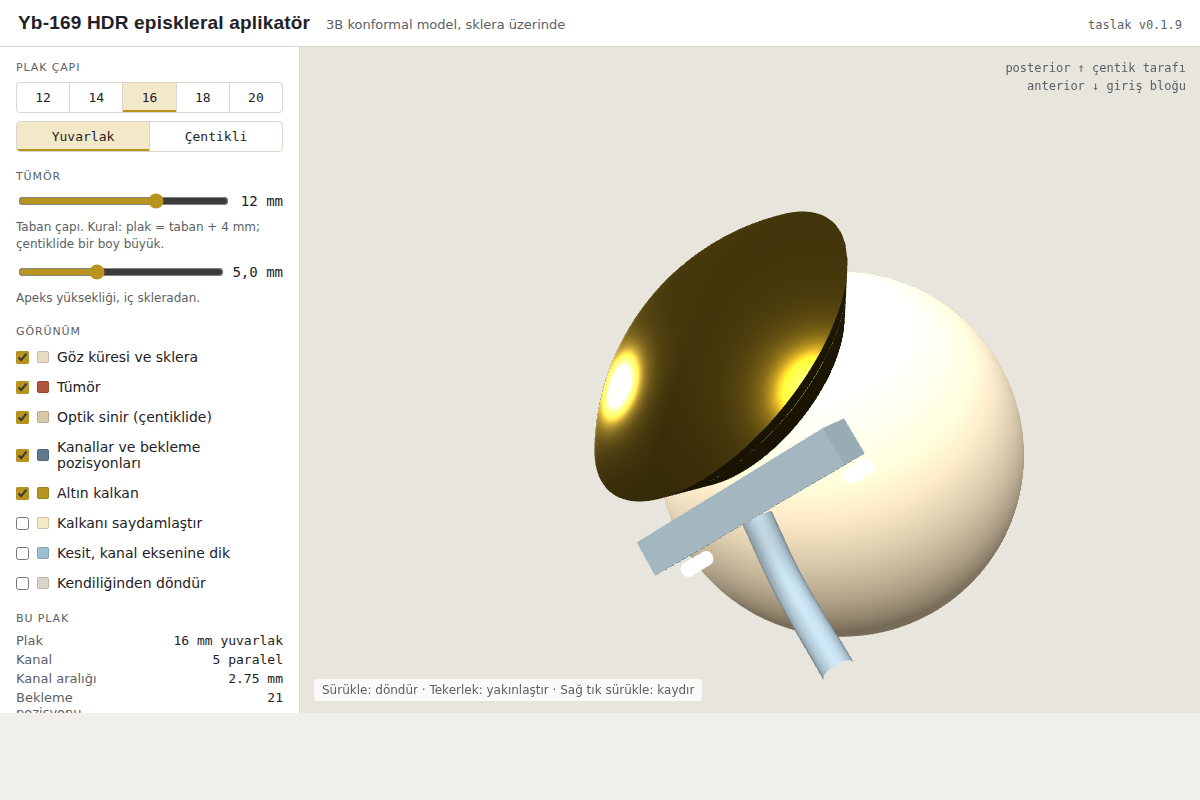
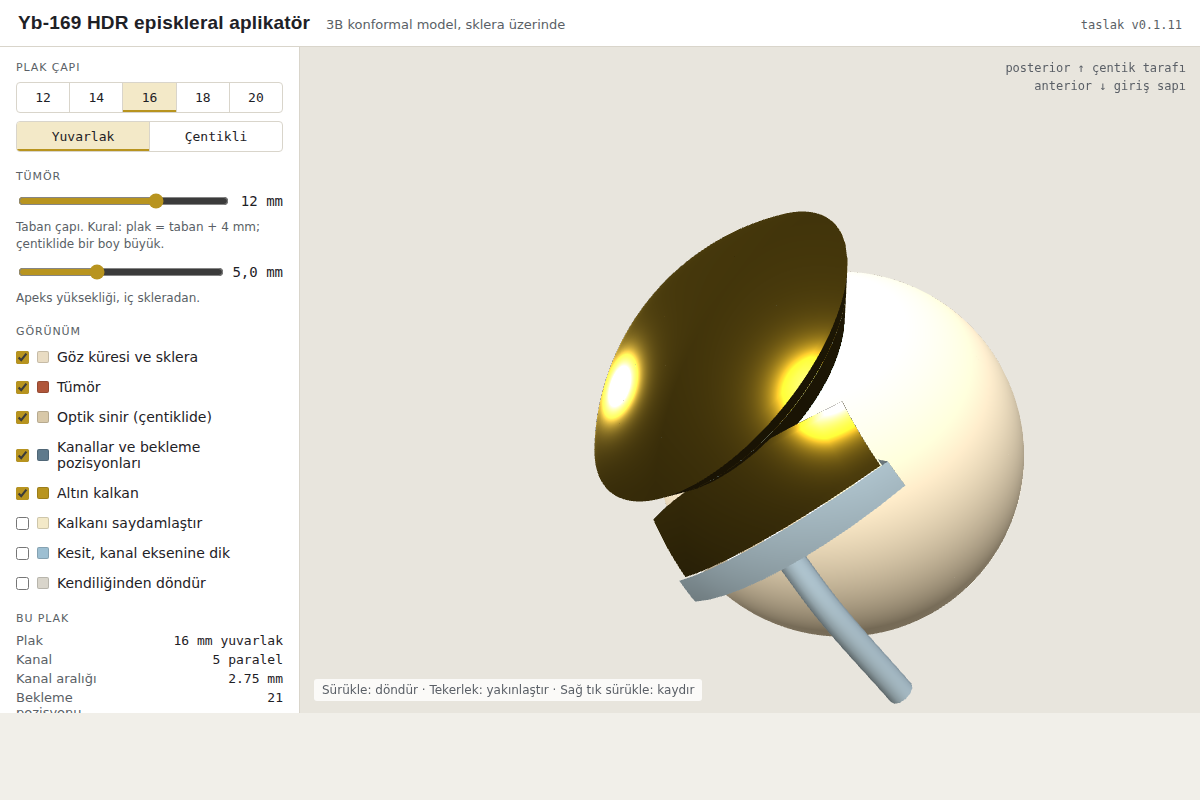
Giriş bloğu yerine kenara teğet yassı sap
Dupere 2021 aplikatörünün dış görünüşü benimsendi: pürüzsüz kabuk ve
plak kenarına teğet tek sap, kubbe uyarlamasıyla. Sap sklera eğrisini
izleyen yassı çok lümenli gövde olarak tanımlandı (belge 02); "9" halka
kanalının kabloyla uygulanamazlığı belge 07'ye eklendi. 3B modelde sap,
konektör ve kılıf yeniden kuruldu; 2B çizim etiketleri güncellendi.

Claude-Session: https://claude.ai/code/session_01HPtF2erGemc5sormR7shLC

Changed region(s): [[0.5242, 0.5, 0.7708, 0.875], [0.8633, 0.0938, 0.9867, 0.125], [0.925, 0.0, 0.9867, 0.0625]]

diff --git a/figures/3d-model.html b/figures/3d-model.html
@@ -91,7 +91,7 @@
 <header>
   <h1>Yb-169 HDR episkleral aplikatör</h1>
   <span class="sub">3B konformal model, sklera üzerinde</span>
-  <span class="ver">taslak v0.1.9</span>
+  <span class="ver">taslak v0.1.11</span>
 </header>
 
 <aside>
@@ -134,7 +134,7 @@
 </aside>
 
 <div id="scene">
-  <div class="axis">posterior ↑ çentik tarafı<br>anterior ↓ giriş bloğu</div>
+  <div class="axis">posterior ↑ çentik tarafı<br>anterior ↓ giriş sapı</div>
   <div class="hint">Sürükle: döndür · Tekerlek: yakınlaştır · Sağ tık sürükle: kaydır</div>
 </div>
 
@@ -327,22 +327,29 @@
           s.position.copy(P(c.x, y, R_D)); group.add(s);
         });
       }
-      // giriş bloğu
-      const xs = ch.map(c => c.x), w = Math.max(...xs) - Math.min(...xs) + 3.0;
-      const pos = P(0, -(r + 1.1), R1 + 1.5), n = pos.clone().normalize();
-      const ty = P(0, -(r + 1.1) + 0.01, R1 + 1.5).sub(P(0, -(r + 1.1), R1 + 1.5)).normalize();
-      const tx = new THREE.Vector3().crossVectors(ty, n).normalize();
-      const blk = new THREE.Mesh(new THREE.BoxGeometry(w, 2.2, 3.0), mats.block);
-      blk.matrix.makeBasis(tx, ty, n); blk.matrix.setPosition(pos); blk.matrixAutoUpdate = false; group.add(blk);
-      for (const c of ch) {
-        const hole = new THREE.Mesh(new THREE.CylinderGeometry(0.45, 0.45, 2.4, 12), mats.lumenSolid.clone());
-        const hp = P(c.x, -(r + 1.1), R1 + 1.5);
-        hole.matrix.makeBasis(tx, n, ty.clone().negate()); hole.matrix.setPosition(hp); hole.matrixAutoUpdate = false; group.add(hole);
+      // giriş sapı: sklera eğrisini izleyen kavisli, yassı, çok lümenli gövde
+      // (Dupere 2021 B görünüşünün kubbe uyarlaması). Konum meridyen yay uzunluğuyla.
+      const Q = (x, sArc, R) => {   // x: yanal kiriş (mm), sArc: kutuptan anteriora yay (mm)
+        const phi = sArc / R_SCL, c = Math.sqrt(Math.max(1 - (x / R_SCL) ** 2, 0));
+        return new THREE.Vector3(x / R_SCL, -Math.sin(phi) * c, Math.cos(phi) * c).normalize().multiplyScalar(R);
+      };
+      const xs = ch.map(c => c.x), w = Math.max(...xs) - Math.min(...xs) + 1.6, L = 4.0, T = 2.0;
+      const s0 = R_SCL * Math.asin(Math.min(r / R_SCL, 1)) - 0.4, Ra = R1 + 0.15, Rb = Ra + T;
+      const slab = (sA, sB, xw, Ra_, Rb_, mat, N = 12, M = 10) => {
+        const rows = (R) => Array.from({ length: N + 1 }, (_, i) => { const sv = sA + (sB - sA) * i / N;
+          return Array.from({ length: M + 1 }, (_, j) => Q(-xw / 2 + xw * j / M, sv, R)); });
+        group.add(gridMesh(rows(Rb_), mat)); group.add(gridMesh(rows(Ra_), mat));
+        for (const xe of [-xw / 2, xw / 2]) group.add(gridMesh(Array.from({ length: N + 1 }, (_, i) => { const sv = sA + (sB - sA) * i / N; return [Q(xe, sv, Ra_), Q(xe, sv, Rb_)]; }), mat));
+        for (const se of [sA, sB]) group.add(gridMesh(Array.from({ length: M + 1 }, (_, j) => { const xv = -xw / 2 + xw * j / M; return [Q(xv, se, Ra_), Q(xv, se, Rb_)]; }), mat));
+      };
+      slab(s0, s0 + L, w, Ra, Rb, goldMat);                                   // sap, altın kabukla tek parça
+      for (const c of ch) {                                                    // lümenler
+        const pts = Array.from({ length: 9 }, (_, i) => Q(c.x, s0 + 0.5 + (L - 0.3) * i / 8, (Ra + Rb) / 2));
+        group.add(new THREE.Mesh(new THREE.TubeGeometry(new THREE.CatmullRomCurve3(pts), 12, CH_ID / 2, 10, false), mats.lumenSolid));
       }
-      // kılıf: bloktan anteriora, yüzeye teğet uzaklaşır
-      const sh = [pos.clone().addScaledVector(ty, -1.2), pos.clone().addScaledVector(ty, -5).addScaledVector(n, 0.6),
-                  pos.clone().addScaledVector(ty, -10).addScaledVector(n, 3).addScaledVector(tx, 1.5)];
-      group.add(new THREE.Mesh(new THREE.TubeGeometry(new THREE.CatmullRomCurve3(sh), 16, 0.9, 12, false), mats.block));
+      slab(s0 + L, s0 + L + 1.6, w + 0.6, Ra - 0.2, Rb + 0.3, mats.block);   // kilitli konektör
+      const sh = [Q(0, s0 + L + 1.4, (Ra + Rb) / 2), Q(0, s0 + L + 5, (Ra + Rb) / 2 + 0.8), Q(0, s0 + L + 10, (Ra + Rb) / 2 + 3.5)];
+      group.add(new THREE.Mesh(new THREE.TubeGeometry(new THREE.CatmullRomCurve3(sh), 16, 0.8, 12, false), mats.block)); // kılıf
     }
     // tümör
     if (document.getElementById('cTumor').checked) {

diff --git a/tools/draw_plaques.py b/tools/draw_plaques.py
@@ -157,7 +157,7 @@ def single(D, notched=False):
     body.append(tv)
     sc, sinfo = section(D, S, 470, 300, notched=notched)
     body.append(sc)
-    body.append(f'<text x="200" y="{190 + (D/2 + 11.5) * S:.0f}" text-anchor="middle" font-size="11" fill="#555">Üstten görünüş, anterior (giriş bloğu) altta</text>')
+    body.append(f'<text x="200" y="{190 + (D/2 + 11.5) * S:.0f}" text-anchor="middle" font-size="11" fill="#555">Üstten görünüş, anterior (giriş sapı) altta</text>')
     body.append(f'<text x="470" y="{300 - (R_SCL + 6.0) * S:.0f}" text-anchor="middle" font-size="11" fill="#555">Kesit, kanal eksenine dik</text>')
     y = 440
     rows = [
@@ -169,7 +169,7 @@ def single(D, notched=False):
         f"En uzun kanal yayı {info['arc']:.1f} mm; eksen skleradan {OFF} mm, küre yarıçapı {R_SCL+OFF} mm",
         f"Katmanlar: ara katman {T_SPACER} mm, kanal katmanı {T_CHAN} mm, altın sırt {T_SHIELD} mm; kenar kalkanı {RIM} mm tam yükseklik",
         f"Kubbe derinliği (sagitta) {sinfo['sag']:.1f} mm, yarım açı {sinfo['th']:.0f}°; iç eğrilik yarıçapı {R_SCL} mm",
-        "Sütür deliği 3 adet, Ø 0,8 mm. Tek giriş bloğu, tek kilitli konektör, tek kılıf.",
+        "Sütür deliği 3 adet, Ø 0,8 mm. Kenara teğet yassı giriş sapı, tek kilitli konektör, tek kılıf.",
     ] + ([f"Çentik: U biçimli, genişlik {G.NOTCH_W:.0f} mm, sinir ekseni plak merkezinden {G.notch_center_y(D):.0f} mm (kenardan {G.NOTCH_INSET:.0f} mm içeride), dip merkezden {G.notch_center_y(D)-G.NOTCH_R:.0f} mm; kalkan çentiği izler"] if notched else [])
     for i, t in enumerate(rows):
         body.append(f'<text x="30" y="{y + i*17}" font-size="10.5" fill="#222">{t}</text>')
@@ -196,7 +196,7 @@ def family():
         yl = cy + 105 + (D/2 + 10) * S
         body.append(f'<text x="{cx}" y="{yl:.0f}" text-anchor="middle" font-size="9.5" fill="#333">{l1}</text>')
         body.append(f'<text x="{cx}" y="{yl+12:.0f}" text-anchor="middle" font-size="9.5" fill="#555">{l2}</text>')
-    body.append(f'<text x="{W/2}" y="{H-12}" text-anchor="middle" font-size="10" fill="#777">Her boy için üstten görünüş (posterior üstte, giriş bloğu anteriorda) ve kanal eksenine dik kesit. Şematik, taslak v0.1.</text>')
+    body.append(f'<text x="{W/2}" y="{H-12}" text-anchor="middle" font-size="10" fill="#777">Her boy için üstten görünüş (posterior üstte, giriş sapı anteriorda) ve kanal eksenine dik kesit. Şematik, taslak v0.1.</text>')
     return svg_wrap(W, H, "\n".join(body), "Plak ailesi")
 
 if __name__ == "__main__":

diff --git a/spec/02-aplikator-tasarim.md b/spec/02-aplikator-tasarim.md
@@ -116,7 +116,7 @@ Optik disk komşuluğundaki tümörler için 16, 18 ve 20 mm plakların posterio
 | Yarım daire merkezi (sinir ekseni) | Plak kenarından **1 mm içeride**: merkezden 16 mm'de 7, 18 mm'de 8, 20 mm'de 9 mm | Çentik derinliği bütün boylarda aynı (kenardan 6 mm); küçük plakta çentik plağın ortasına inmez ve plak sinire aynı biçimde oturur |
 | Çentik kenarı | 0,5 mm altın kalkan çentik hattını izler | Kenar her yerde kapalı kalır |
 | Tümör yerleşimi | Tümörün posterior kenarı disk kenarında (sinir ekseninden 1,5 mm önde), yani tümör çentik bölgesine 3 ile 4 mm girer; taban çapı ≤ plak çapı − 4 mm | Jukstapapiller tümörün gerçek yerleşimi; çentik altındaki tümör kenarı yalnızca yan kanallardan doz alır |
-| Sütür delikleri | 2 lateral, 1 anterior | Posterior kenar çentik nedeniyle kullanılamaz |
+| Sütür delikleri | 2 lateral, 1 anterior sapın yanında | Posterior kenar çentik nedeniyle kullanılamaz |
 
 Kanal düzeni çentikli sürümlerde değişir. Çentiğe giren üç iç kanal (x = 0 ve ± 3,15 mm) çentik
 sınırında kısaltılır; çentiğin iki yanında **tam boy yan kanallar** (x = ± 6,3 mm: çentik yarıçapı
@@ -158,16 +158,25 @@ Okuma:
 - HDR'nin çentikte avantajı, yan kanal bekleme sürelerinin tümör kenarına göre optimize
   edilebilmesidir; LDR'de bu serbestlik yoktur.
 
-## Giriş bloğu ve transfer tüpleri
+## Giriş sapı ve transfer tüpleri
 
-- **Plağa tek giriş vardır.** Kenar kalkanında tek bir yuva açılır; transfer tüpleri tek kılıf
-  ve tek kilitli konektörle bu yuvaya bağlanır. Kaynak, afterloader tarafından her kör kanala
-  sırayla gönderilir; cerrahın gördüğü tek bir kablo çıkışıdır.
-- Giriş bloğu plağın anterior kenarında, plak yüzeyinden **≤ 3 mm** çıkıntı yapar.
-  Kanal girişleri blokta yan yana dizilir; her giriş numaralı ve renk kodludur.
-- Kanallar bloğa **teğet** girer; blokta ek büküm yoktur. Tüm büküm kanal içindeki küre
+Dış görünüş Dupere 2021'in aplikatörünü (belge 07, şekil B) örnek alır: pürüzsüz altın kabuk ve
+plak kenarına **teğet tek sap**, plak yüzeyinden çıkıntı yok. İki fark: kabuk düz disk değil
+sklera eğrisinde kubbedir; sap tek lümenli yuvarlak boru değil **yassı ve çok lümenlidir**.
+
+- **Plağa tek giriş vardır.** Kenar kalkanında tek bir yuva açılır; sap bu yuvadan çıkar.
+  Kaynak, afterloader tarafından her kör kanala sırayla gönderilir; cerrahın gördüğü tek bir
+  sap ve tek bir kılıftır.
+- Sap plağın anterior kenarında, kabuğa teğet ve sklera eğrisini izler, **kalınlık ≤ 2,0 mm**
+  (lümen 1,2 mm + 0,4 mm duvarlar), genişlik kanal yayılımı + 1,6 mm, plak dışında 4 mm uzunluk;
+  ucunda tek kilitli konektör. Kanal lümenleri sapta kiriş
+  aralığıyla yan yana dizilir; her lümen numaralı ve renk kodludur.
+- Lümenler yuvarlak tek boruya toplanmaz: kiriş aralığındaki lümenleri 13 mm bükülme
+  yarıçapıyla bir araya getirmek yaklaşık 15 mm uzunluk ister, bu da orbita içinde kalır.
+  Tüpler ancak forniks dışında, kılıf içinde birleşir.
+- Kanallar sapa **teğet** girer; sapta ek büküm yoktur. Tüm büküm kanal içindeki küre
   kabuğu eğrisidir.
-- Transfer tüpleri bloğa tek bir kilitli konektörle bağlanır (tek hareketle 3 ile 7 kanal).
+- Transfer tüpleri sapın ucuna tek bir kilitli konektörle bağlanır (tek hareketle 3 ile 7 kanal).
   Konektörden sonra tüpler 20 cm boyunca tek kılıf içinde gider, sonra afterloader
   bağlantıları için ayrılır. Toplam uzunluk cihazın standart transfer tüpü uzunluğuna eşittir.
 - Konektör kilitli değilken afterloader kanal kontrolü hata verir (tüp uzunluğu ölçümü ile).
@@ -179,8 +188,8 @@ Okuma:
 - Sırt kabuğunun dudağında 3 sütür deliği: 2 posterior yarıda simetrik, 1 anterior kenarda
   giriş bloğunun yanında. Delik çapı 0,8 mm, kenarları yuvarlatılmış; 5-0 naylon veya
   merşilen için.
-- Giriş bloğu tarafı anteriorda kalacak şekilde dikilir; posterior tümörlerde blok ekvator
-  civarında olur, tüp fornikse yönlenir.
+- Sap tarafı anteriorda kalacak şekilde dikilir; posterior tümörlerde sap ekvator
+  civarında olur, kılıf fornikse yönlenir.
 - Plak konumu ameliyat sırasında B-mod ultrason ile doğrulanır. Metal kabuk ultrasonda
   net görülür; ayrıca ek parçaya 3 adet ekojen işaret (hava kapsülü veya cam boncuk)
   yerleştirilerek plak yönelimi kesitte tanınabilir kılınır.

diff --git a/spec/07-kanal-topolojisi.md b/spec/07-kanal-topolojisi.md
@@ -95,6 +95,19 @@ Bunun bedelleri:
 - Optik sinir ve iris doz azalmalarının bizim geometride de elde edilip edilmediği,
   belge 03'teki Monte Carlo çalışmasında I-125 COMS karşılaştırması eklenerek kontrol edilecek.
 
+## Dupere aplikatörünün iki yüzü: dış görünüş alınır, kanal alınmaz
+
+Makaledeki şekil, 12 mm aplikatörü iki görünüşte verir. **A**: "9" biçimli halka kanal, içinde
+on altı ayrık kaynak peleti, tek teğet giriş. **B**: dıştan pürüzsüz altın kabuk ve kenara
+teğet tek sap.
+
+- **Kanal (A)**: halka yarıçapı yaklaşık 4 mm. GammaMedplus kablosunun sınırı 13 mm; kapsül
+  bu halkaya giremez. Makale bu yüzden pelet dizisi kullanır. Elimizdeki cihazla uygulanamaz.
+  Bu, yukarıdaki spiral analizinin halka biçimli halidir.
+- **Dış görünüş (B)**: benimsenmiştir (belge 02, giriş sapı). Kubbe kabuk, kenara teğet yassı
+  çok lümenli sap, çıkıntısız. Tek boru yerine yassı sap gerekmesinin nedeni yine bükülme
+  yarıçapıdır: lümenleri tek boruya toplamak orbita içinde 15 mm düz uzunluk ister.
+
 ## Sayısal karşılaştırma: hangi düzen en iyi
 
 `tools/optimize.py`: plak çapı = taban + 4 mm; tümör yüzeyinin her noktası ≥ reçete olacak

diff --git a/spec/06-yol-haritasi.md b/spec/06-yol-haritasi.md
@@ -47,6 +47,7 @@ ilerleyebilir ve Ir-192 ile test edilebilir.
 | Sürüm | Tarih | Değişiklik |
 |-------|-------|-----------|
 | v0.1 | 2026-09-02 | İlk taslak: kaynak seçimi, geometri, dozimetri yaklaşımı, iş akışı, açık sorular |
+| v0.1.11 | 2026-09-02 | Giriş bloğu yerine kenara teğet yassı çok lümenli sap (Dupere 2021 dış görünüşü, kubbe uyarlaması); "9" halka kanalının kabloyla uygulanamazlığı belge 07'ye eklendi |
 | v0.1.10 | 2026-09-02 | 3B konformal model eklendi (figures/3d-model.html): göz küresi, katmanlı plak, kanallar ve bekleme pozisyonları, çentik ve optik sinir, tümör kubbesi, kesit görünümü |
 | v0.1.9 | 2026-09-02 | Çentik merkezi plak kenarından 1 mm içeride sabitlendi (16: 7, 18: 8, 20: 9 mm); tümör modeli disk kenarına kadar uzatıldı, çentikli sklera/Rx artışı ve "bir boy büyük çentikli plak" kuralı eklendi |
 | v0.1.8 | 2026-09-02 | Çentik 8 → 10 mm (cerrahi deneyim: 8 mm kılıfa zor oturuyor); kanal tüpleri kalkan iç çemberine kadar uzatıldı, bekleme pozisyonu sayıları güncellendi; 18 mm çentikli disk komşuluğunda tercih notu |
